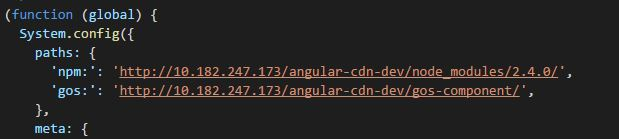
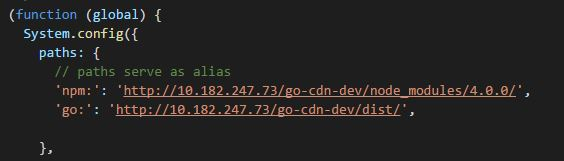
edit page getting start

diff --git a/src/app/doc/page-getting-start.html b/src/app/doc/page-getting-start.html
@@ -11,25 +11,31 @@
        
         <div class="col-md-3">
             <ul class="nav nav-pills nav-stacked" role="tablist">
-                <li class="nav-item " > <a class="nav-link active" href="#setupNodejs" role="tab" data-toggle="tab" >Setup Nodejs</a></li>
-                <li class="nav-item"> <a class="nav-link" href="#setupGit" role="tab" data-toggle="tab">Setup Git</a> </li>
-                <li class="nav-item"> <a class="nav-link" href="#createProjectAngular2" role="tab" data-toggle="tab">How to create project Angular2</a> </li>
+                <li class="nav-item " > <a class="nav-link active" href="#prerequisiteInstall" role="tab" data-toggle="tab" >Prerequisite Install</a></li>
+                <!--<li class="nav-item"> <a class="nav-link" href="#setupGit" role="tab" data-toggle="tab">Setup Git</a> </li>-->
+                <li class="nav-item"> <a class="nav-link" href="#createProjectAngular2" role="tab" data-toggle="tab">Create New Project</a> </li>
                 <!--<li class="nav-item"> <a class="nav-link" href="#callGOSforProjectAngular2" role="tab" data-toggle="tab">How to use GOS Component for project Angular2</a> </li>-->
-                <li class="nav-item"> <a class="nav-link" href="#callGOSforWebSphere" role="tab" data-toggle="tab">How to use GOS Component for project websphere</a> </li>
-                <li class="nav-item"> <a class="nav-link" href="#systemjsConfig" role="tab" data-toggle="tab">How to edit systemjs.config.js</a> </li>
+                <!--<li class="nav-item"> <a class="nav-link" href="#callGOSforWebSphere" role="tab" data-toggle="tab">How to use GOS Component for project websphere</a> </li>-->
+                <li class="nav-item"> <a class="nav-link" href="#existingProject" role="tab" data-toggle="tab">Existing Angular Project</a> </li>
             </ul>
         </div>
         <div class="col-md-9">
             <div class="tab-content">
-                <div  role="tabpanel" class="tab-pane active" id="setupNodejs">
+                <div  role="tabpanel" class="tab-pane active" id="prerequisiteInstall">
                     <h3 class="card-header "><strong> การติดตั้ง Nodejs </strong></h3>
-                    <!--<div class="card-block" *ngFor="let data of setupNodejs"> 
-                        <p> {{data.data}} </p> 
-                        <p  *ngIf="data.code != null"> <code> {{data.code}} </code> </p>
-                        <img *ngIf="data.image != null" class="img-fluid" alt="Responsive image" src="{{data.image}}" >
-                    </div>-->
                     <div class="card-block">
+                        <p> 1. ดาวน์โหลด Nodejs ผ่านเว็บไซต์ <a href="https://nodejs.org/en/download/" target="_blank" > https://nodejs.org </a></p>
                         <p *ngFor="let data of setupNodejs"> 
+                             {{data.data}} <br>
+                            <code *ngIf="data.code != null"> {{data.code}} </code> 
+                            <img *ngIf="data.image != null" class="img-fluid" alt="Responsive image" src="{{data.image}}" >
+                        </p>
+                    </div>
+                    <h3 class="card-header"><strong> การติดตั้ง Git </strong></h3>
+                    <div class="card-block">
+                        <p> 1.	ติดตั้ง Git สำหรับ Windows โดยดาวน์โหลดจาก <a href="https://git-scm.com/downloads" target="_blank" > git-scm.com </a></p>
+                        <p> 2.	คลิกขวา เลือก Run as administrator เพื่อเข้าสู่ขั้นตอนการติดตั้ง (ดูรายละเอียดการติดตั้งได้ที่ <a href="http://www.artit-k.com/dev-install-git-for-windows" target="_blank" > http://www.artit-k.com/dev-install-git-for-windows</a> ) </p>
+                        <p *ngFor="let data of setupGit"> 
                              {{data.data}} <br>
                             <code *ngIf="data.code != null"> {{data.code}} </code> 
                             <img *ngIf="data.image != null" class="img-fluid" alt="Responsive image" src="{{data.image}}" >
@@ -39,12 +45,6 @@
 
                 <div role="tabpanel" class="tab-pane fade" id="setupGit">
                     <h3 class="card-header"><strong> การติดตั้ง Git </strong></h3>
-                    <!--<div class="card-block" *ngFor="let data of setupGit"> 
-                        <p> {{data.data}} </p> 
-                        <p  *ngIf="data.code != null"> <code> {{data.code}} </code> </p>
-                        <img *ngIf="data.image != null" class="img-fluid" alt="Responsive image" src="{{data.image}}" >  
-                    </div>-->
-
                     <div class="card-block">
                         <p *ngFor="let data of setupGit"> 
                              {{data.data}} <br>
@@ -56,12 +56,6 @@
 
                 <div role="tabpanel" class="tab-pane fade" id="createProjectAngular2">
                     <h3 class="card-header"><strong> การสร้าง Project Angular2 </strong></h3>
-                    <!--<div class="card-block" *ngFor="let data of createProjectAngular"> 
-                        <p> {{data.data}} </p> 
-                        <p  *ngIf="data.code != null"> <code> {{data.code}} </code> </p>
-                        <img *ngIf="data.image != null" class="img-fluid" alt="Responsive image" src="{{data.image}}" >
-                    </div>-->
-
                     <div class="card-block">
                         <p *ngFor="let data of createProjectAngular"> 
                              {{data.data}} <br>
@@ -71,21 +65,7 @@
                     </div>
                 </div>
 
-                <!--<div role="tabpanel" class="tab-pane fade" id="callGOSforProjectAngular2">
-                    <div class="card-header">
-                        <h2><strong> การเรียกใช้งาน GOS Component</strong></h2>
-                        <h5> สำหรับ Project Angular 2 (node_modules) </h5>
-                    </div>
-                            <p> 1.	Download หรือ Copy file systemjs.config.js มาไว้ใน Project </p>
-                            <strong> systemjs.config.js <a href="#" class="typcn typcn-download h5"> </a> </strong>
-                            <object data="./app/file-for-download/systemjs.txt" style="width: 100%; height: 100%; display: block;"></object>
-                            <p> 2.	start project ด้วยคำสั่งนี้ </p>
-                            <code> npm start </code>
-                            <p> 3.	Import Component ที่ต้องการใน app.module.ts เช่น  </p>
-                            <code> import &#123; ButtonComponent &#125; from 'gos-button'&#59; </code>
-                </div>-->
-
-                <div role="tabpanel" class="tab-pane fade" id="callGOSforWebSphere">
+                <!--<div role="tabpanel" class="tab-pane fade" id="callGOSforWebSphere">
                     <div class="card-header">
                         <h3 ><strong> การเรียกใช้งาน GOS Component  </strong></h3>
                         <h5 style="color:#ffffff!important;" > สำหรับ Project JSP (WebSphere) </h5> 
@@ -121,16 +101,29 @@
                         <pre> tsc </pre> <br> 
                         <p> 5.	start server run project </p>
                     </div>
-                </div>
+                </div>-->
 
-                <div  role="tabpanel" class="tab-pane fade" id="systemjsConfig">
-                    <h3 class="card-header "><strong> การแก้ไขไฟล์ systemjs.config.js </strong></h3>
+                <div  role="tabpanel" class="tab-pane fade" id="existingProject">
+                    <h3 class="card-header "><strong>Existing Angular Project</strong></h3>
+                    <h5 class="card-header ">systemjs.config.js</h5>
                     <div class="card-block">
-                        <p *ngFor="let data of howToSystemjs"> 
+                        <p *ngFor="let data of howToSystemjs">
                              {{data.data}} <br>
-                             <code *ngIf="data.code != null"> {{data.code}} </code> 
-                            <img *ngIf="data.image != null" class="img-fluid" alt="Responsive image" src="{{data.image}}" >
+                            <code *ngIf="data.code != null"> {{data.code}} </code> 
                         </p>
+                        <object data="file/systemjs.txt" style="width: 100%; height: 100%; display: block;"></object> <br>
+                    </div>
+
+                    <h5 class="card-header ">app.module.ts</h5>
+                    <div class="card-block">
+                        <p> {{importAppModule}} </p>
+                        <object data="file/appModuleTS.txt" style="width: 100%; height: 100%; display: block;"></object> <br>                        
+                    </div>
+
+                    <h5 class="card-header ">index.html</h5>
+                    <div class="card-block">
+                        <p> {{indexData}} </p>
+                        <object data="file/indexFile.txt" style="width: 100%; height: 100%; display: block;"></object> <br>
                     </div>
                 </div>
             </div>

diff --git a/src/app/doc/page-getting-start.component.ts b/src/app/doc/page-getting-start.component.ts
@@ -15,17 +15,20 @@ import { Component, Input } from '@angular/core';
 })
 export class GettingStartComponent  { 
 
-    releaseDate:string = '25 January 2017';
+    releaseDate:string = '10 April 2017';
+    prerequisiteInstall: Array<any> = [
+        {},
+    ];
     setupNodejs:Array<any> = [
-        {image: `image/1-nodejs.jpg`, data: `1. เข้าเว็บไซต์ https://nodejs.org `},
-        {data: `2.	เปิดไฟล์ที่โหลดมา แล้วทำการติดตั้ง Node.js เมื่อทำการติดตั้ง Node.js จะได้ Node และตัว npm (Node Package Manager) ซึ่งเป็นตัวจัดการ package/module ต่าง ๆ ของ Node มาด้วย`},
-        {code:`node –v`, data: `3.	ตรวจสอบว่าเราทำการติดตั้ง Node.js สมบูรณ์หรือไม่ โดยการเช็คเวอร์ชันด้วยคำสั่งนี้`},
-        {code:`npm -v`, data: `4.	ตรวจเช็คเวอร์ชัน npm `},
+        // { data: `1. เข้าเว็บไซต์ https://nodejs.org `},
+        { data: `2.	ทำการติดตั้ง Node.js เมื่อทำการติดตั้ง Node.js จะได้ Node และตัว npm (Node Package Manager) ซึ่งเป็นตัวจัดการ package/module ต่าง ๆ ของ Node มาด้วย`},
+        { code:`node –v`, data: `3.	ตรวจสอบว่าเราทำการติดตั้ง Node.js สมบูรณ์หรือไม่ โดยการเช็คเวอร์ชันด้วยคำสั่งนี้`},
+        { code:`npm -v`, data: `4.	ตรวจเช็คเวอร์ชัน npm `},
     ];
 
     setupGit:Array<any> = [
-        {image: `image/1-setupGit.jpg`, data: `1.	ติดตั้ง Git สำหรับ Windows โดยดาวน์โหลดจาก git-scm.com`},
-        {data: `2.	คลิกขวา เลือก Run as administrator เพื่อเข้าสู่ขั้นตอนการติดตั้ง (ดูรายละเอียดการติดตั้งได้ที่ http://www.artit-k.com/dev-install-git-for-windows)`},
+        // {image: `image/1-setupGit.jpg`, data: `1.	ติดตั้ง Git สำหรับ Windows โดยดาวน์โหลดจาก git-scm.com`},
+        // {data: `2.	คลิกขวา เลือก Run as administrator เพื่อเข้าสู่ขั้นตอนการติดตั้ง (ดูรายละเอียดการติดตั้งได้ที่ http://www.artit-k.com/dev-install-git-for-windows)`},
         {image: `image/setupGit-4.jpg`, data: `3.	หลังจากติดตั้ง Git เรียบร้อย สามารถตรวจสอบ version ของ git ได้ โดยใน Git GUI สามารถดูได้ที่เมนู Help > About Git Gui`},
         {code:`git version หรือ git --version`, data: `ส่วนของ Git bash จะเป็นหน้า Command Prompt สามารถตรวจสอบ version ได้ด้วยการพิมพ์คำสั่ง`},
     ];
@@ -38,14 +41,15 @@ export class GettingStartComponent  {
     ];
 
     howToSystemjs:Array<any> = [
-        { data: `หากโปรเจคมีไฟล์ systemjs.config.js อยู่แล้ว สามารถแก้ไขไฟล์เพื่อเรียกใช้งาน Component ได้ ดังต่อไปนี้` },
-        { code: `'npm:': 'http://10.182.247.173/gos-cdn/node_modules/2.4.0/'`, data: `1.	กำหนด path ที่ชื่อ npm เพื่อเรียกใช้งาน library หลักของ Angular2 ดังนี้`},
-        { code: `'gos:': 'http://10.182.247.173/gos-cdn/'`, data: `2.	กำหนด path ที่ชื่อ gos เพื่อเรียกใช้งาน component ดังนี้`},
-        { image: `image/systemjs001.jpg`, data: `วาง path ทั้ง 2 ดังรูปนี้`},
-        { image: `image/systemjs002.jpg`, data: `3.	เมื่อต้องการเรียกใช้งาน component ให้นำ path ของcomponent ที่ต้องการมาวางในส่วน map ดังตัวอย่างในรูป`},
-        { image: `image/systemjs003.jpg`, data: `และกำหนด defaultExtension ของcomponent ที่ต้องการ ดังตัวอย่างในรูป`},
-        { data: `4.	Start project เพื่อใช้งาน component ต่อไป`},
-        { data: ``}
+        { code: `'npm:': 'http://10.182.247.73/go-cdn-dev/node_modules/4.0.0/',`, data: `1.	กำหนด path ที่ชื่อ npm เพื่อเรียกใช้งาน library หลักของ Angular2 ดังนี้`},
+        { code: `'go:': 'http://10.182.247.73/go-cdn-dev/dist/'`, data: `2.	กำหนด path ที่ชื่อ go เพื่อเรียกใช้งาน component ดังนี้`},
+        { data: `3. วาง path ทั้ง 2 ลงใน paths`},
+        { data: `4.	วาง path ของ gomodule และ libmodule ลงใน map`},
+        { data: `เมื่อวางแล้วจะได้ดังนี้`}
     ];
+
+    importAppModule: string = `import 'gomodule' และ 'libmodule' ใน app.module.ts ดังนี้`;
+    indexData: string = `ใส่ styles ในไฟล์ index.html เพื่อที่จะสามารถใช้ component ได้เต็มประสิทธิภาพ ดังนี้`;
+
     
 }
